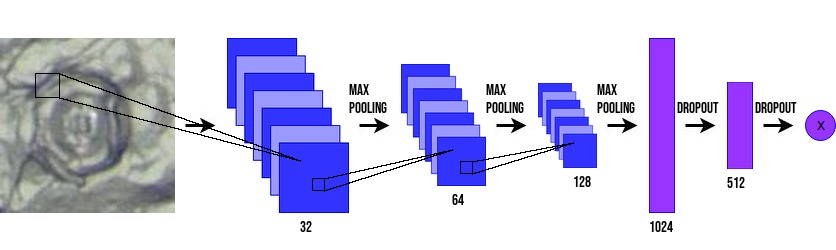
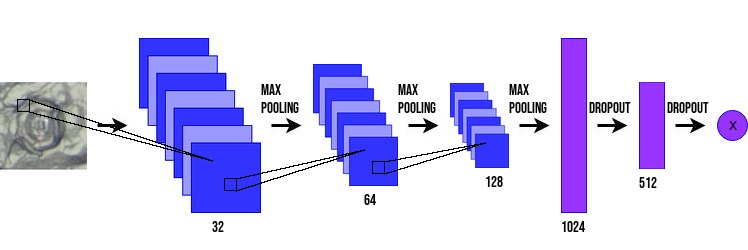
aanpassingen a.h.v. feedback

diff --git a/.scripts/diep_neuraal_netwerk.py b/.scripts/diep_neuraal_netwerk.py
@@ -205,8 +205,6 @@ def vind_stomata():
     points = []
     annotations = []
     for i, im_object in enumerate(model['full_images']):
-        if im_object['name'] == 'kat':
-            continue
         im_objects.append(im_object)
 
         im = Image.open(os.path.join(image_dir, im_object['name']))
@@ -250,24 +248,27 @@ def laad_referentie_model():
 
 
 def misleid_netwerk():
-    image_path = os.path.join(image_dir, 'kat.jpg')
-    image = Image.open(image_path)
+    fig, ax = plt.subplots(nrows=1, ncols=len(model['adverserial_images']), squeeze=False)
+    im_objects = []
+    points = []
+    for i, im_object in enumerate(model['adverserial_images']):
+        im_objects.append(im_object)
 
-    for full_image in model['full_images']:
-        if full_image['name'] != 'kat':
-            continue
-        stomata_punten = full_image['points']
+        im = Image.open(os.path.join(image_dir, im_object['name']))
+        im_r = np.array(im)
 
-    fig, ax = plt.subplots()
-    ax.imshow(image)
-    points_im, = ax.plot([], [], '+c', alpha=0.6, markeredgewidth=3, markersize=12)
+        ax[0][i].imshow(im_r)
+        points_im, = ax[0][i].plot([], [], '+c', alpha=0.6, markeredgewidth=3, markersize=12)
+        points.append(points_im)
+
     plt.close()
 
     def change_threshold(thr=50):
-        x_points = [x[0] for x in stomata_punten[str(thr)]]
-        y_points = [x[1] for x in stomata_punten[str(thr)]]
-        points_im.set_xdata(x_points)
-        points_im.set_ydata(y_points)
+        for i, im_object in enumerate(im_objects):
+            x_points = [x[0] for x in im_object['points'][str(thr)]]
+            y_points = [x[1] for x in im_object['points'][str(thr)]]
+            points[i].set_xdata(x_points)
+            points[i].set_ydata(y_points)
         display(fig)
 
     widgets.interact(change_threshold, thr=widgets.IntSlider(value=50, min=5, max=95, step=5, continuous_update=False))

diff --git a/.scripts/visualize_network.py b/.scripts/visualize_network.py
@@ -94,8 +94,8 @@ def get_network_image(base='conv_base', n_conv_layers=1, dropout=False, n_ff_lay
     full_im = Image.fromarray(full_im_r)
 
     square_width = int(im_height * (10 / 200))
-    square_left_top = [stoma_im_local.size[0] * 0.2, stoma_im_local.size[1] * 0.2 + math.ceil((im_height - stoma_im_local.size[1]) / 2)]
-    square_right_bottom = [square_left_top[0] + (2 * square_width), square_left_top[1] + (2 * square_width)]
+    square_left_top = [stoma_im_local.size[0] * 0.2, stoma_im_local.size[1] * 0.35 + math.ceil((im_height - stoma_im_local.size[1]) / 2)]
+    square_right_bottom = [square_left_top[0] + square_width, square_left_top[1] + square_width]
 
     for layer in layers:
         full_im_width = full_im.size[0]
